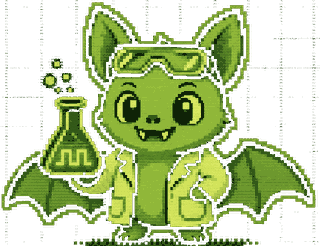
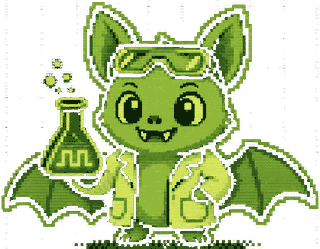
chore: sprites now come from blip8-sounds/brand

diff --git a/README.md b/README.md
@@ -121,9 +121,14 @@ covers are Echo art (originals live in
 The in-app sprites and the favicon are generated:
 
 ```sh
-uv run scripts/sprites.py    # Echo and the wordmark, cut from the brand original
-uv run scripts/covers.py     # waveform alternates and social previews, plotted from real samples
+uv run ../blip8-sounds/brand/sprites.py lab --out public   # Echo and the wordmark
+uv run scripts/covers.py                                   # waveform alternates, favicon
 ```
+
+The sprite cropping lives with the art it crops, in
+[blip8-sounds/brand](https://github.com/sindriax/blip8-sounds/tree/main/brand),
+so the hub and the lab share one implementation. The output is committed, so a
+build never needs that repo checked out.
 
 ## the blip8 family
 
